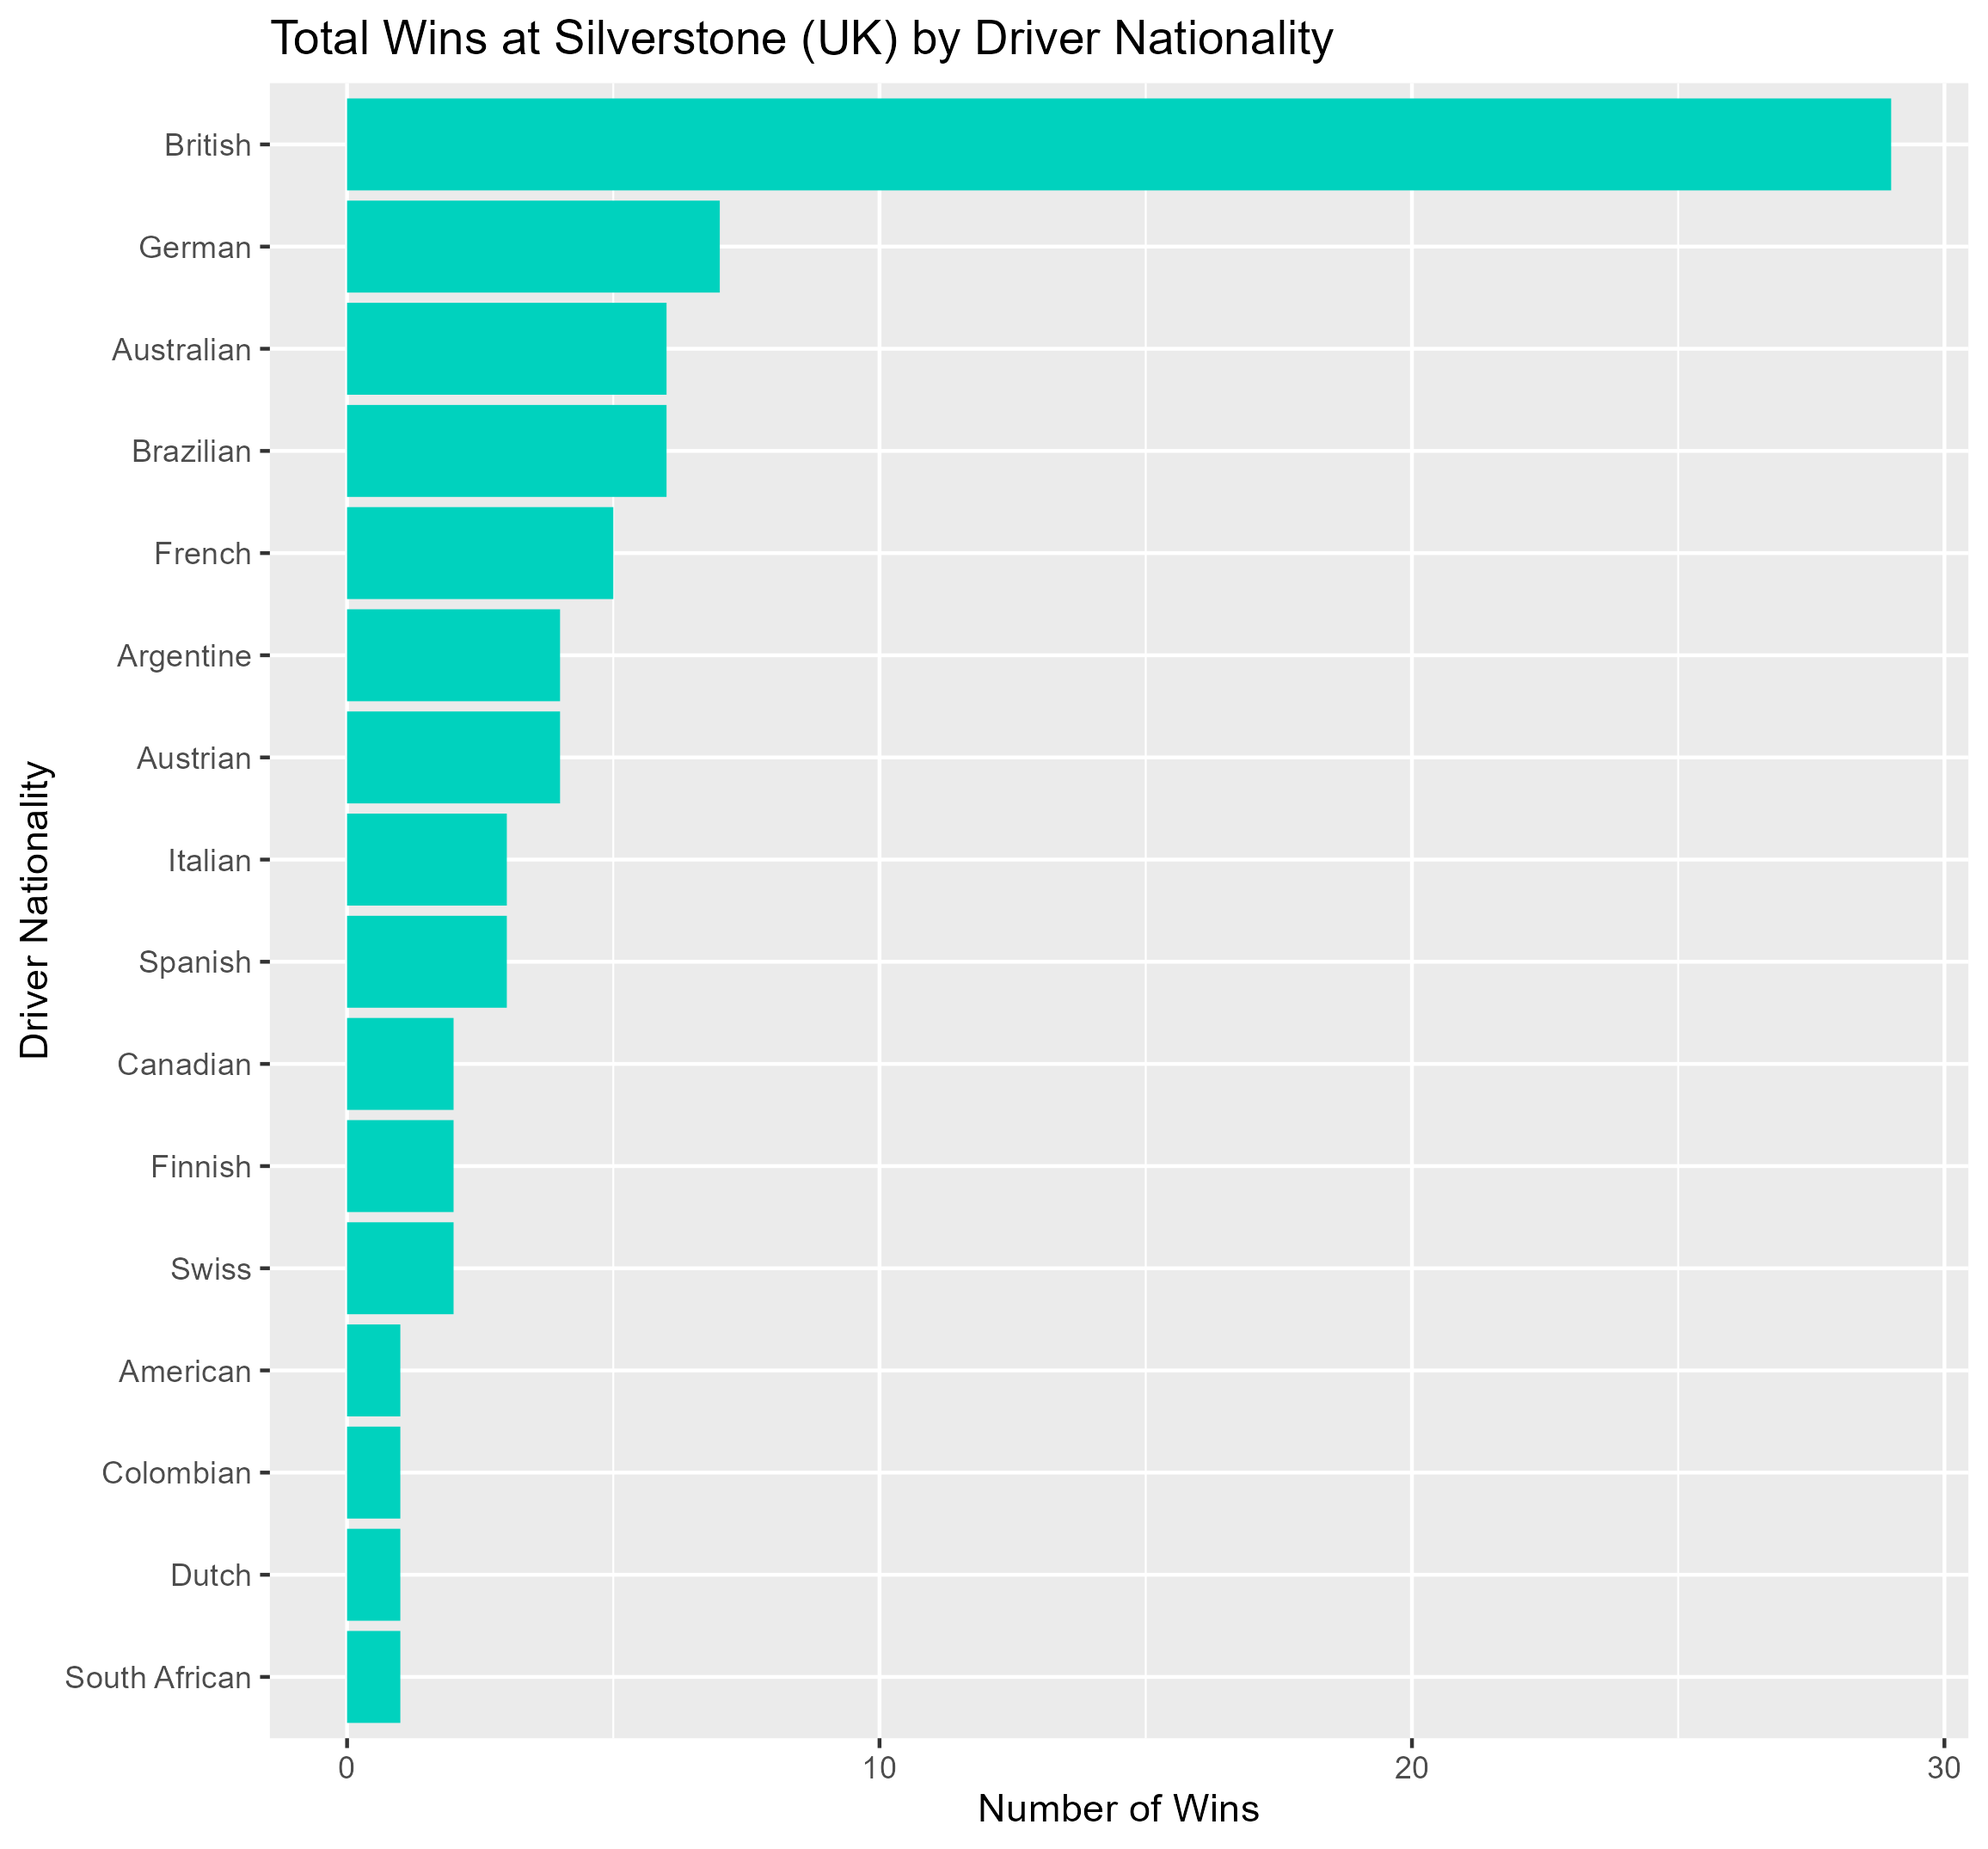
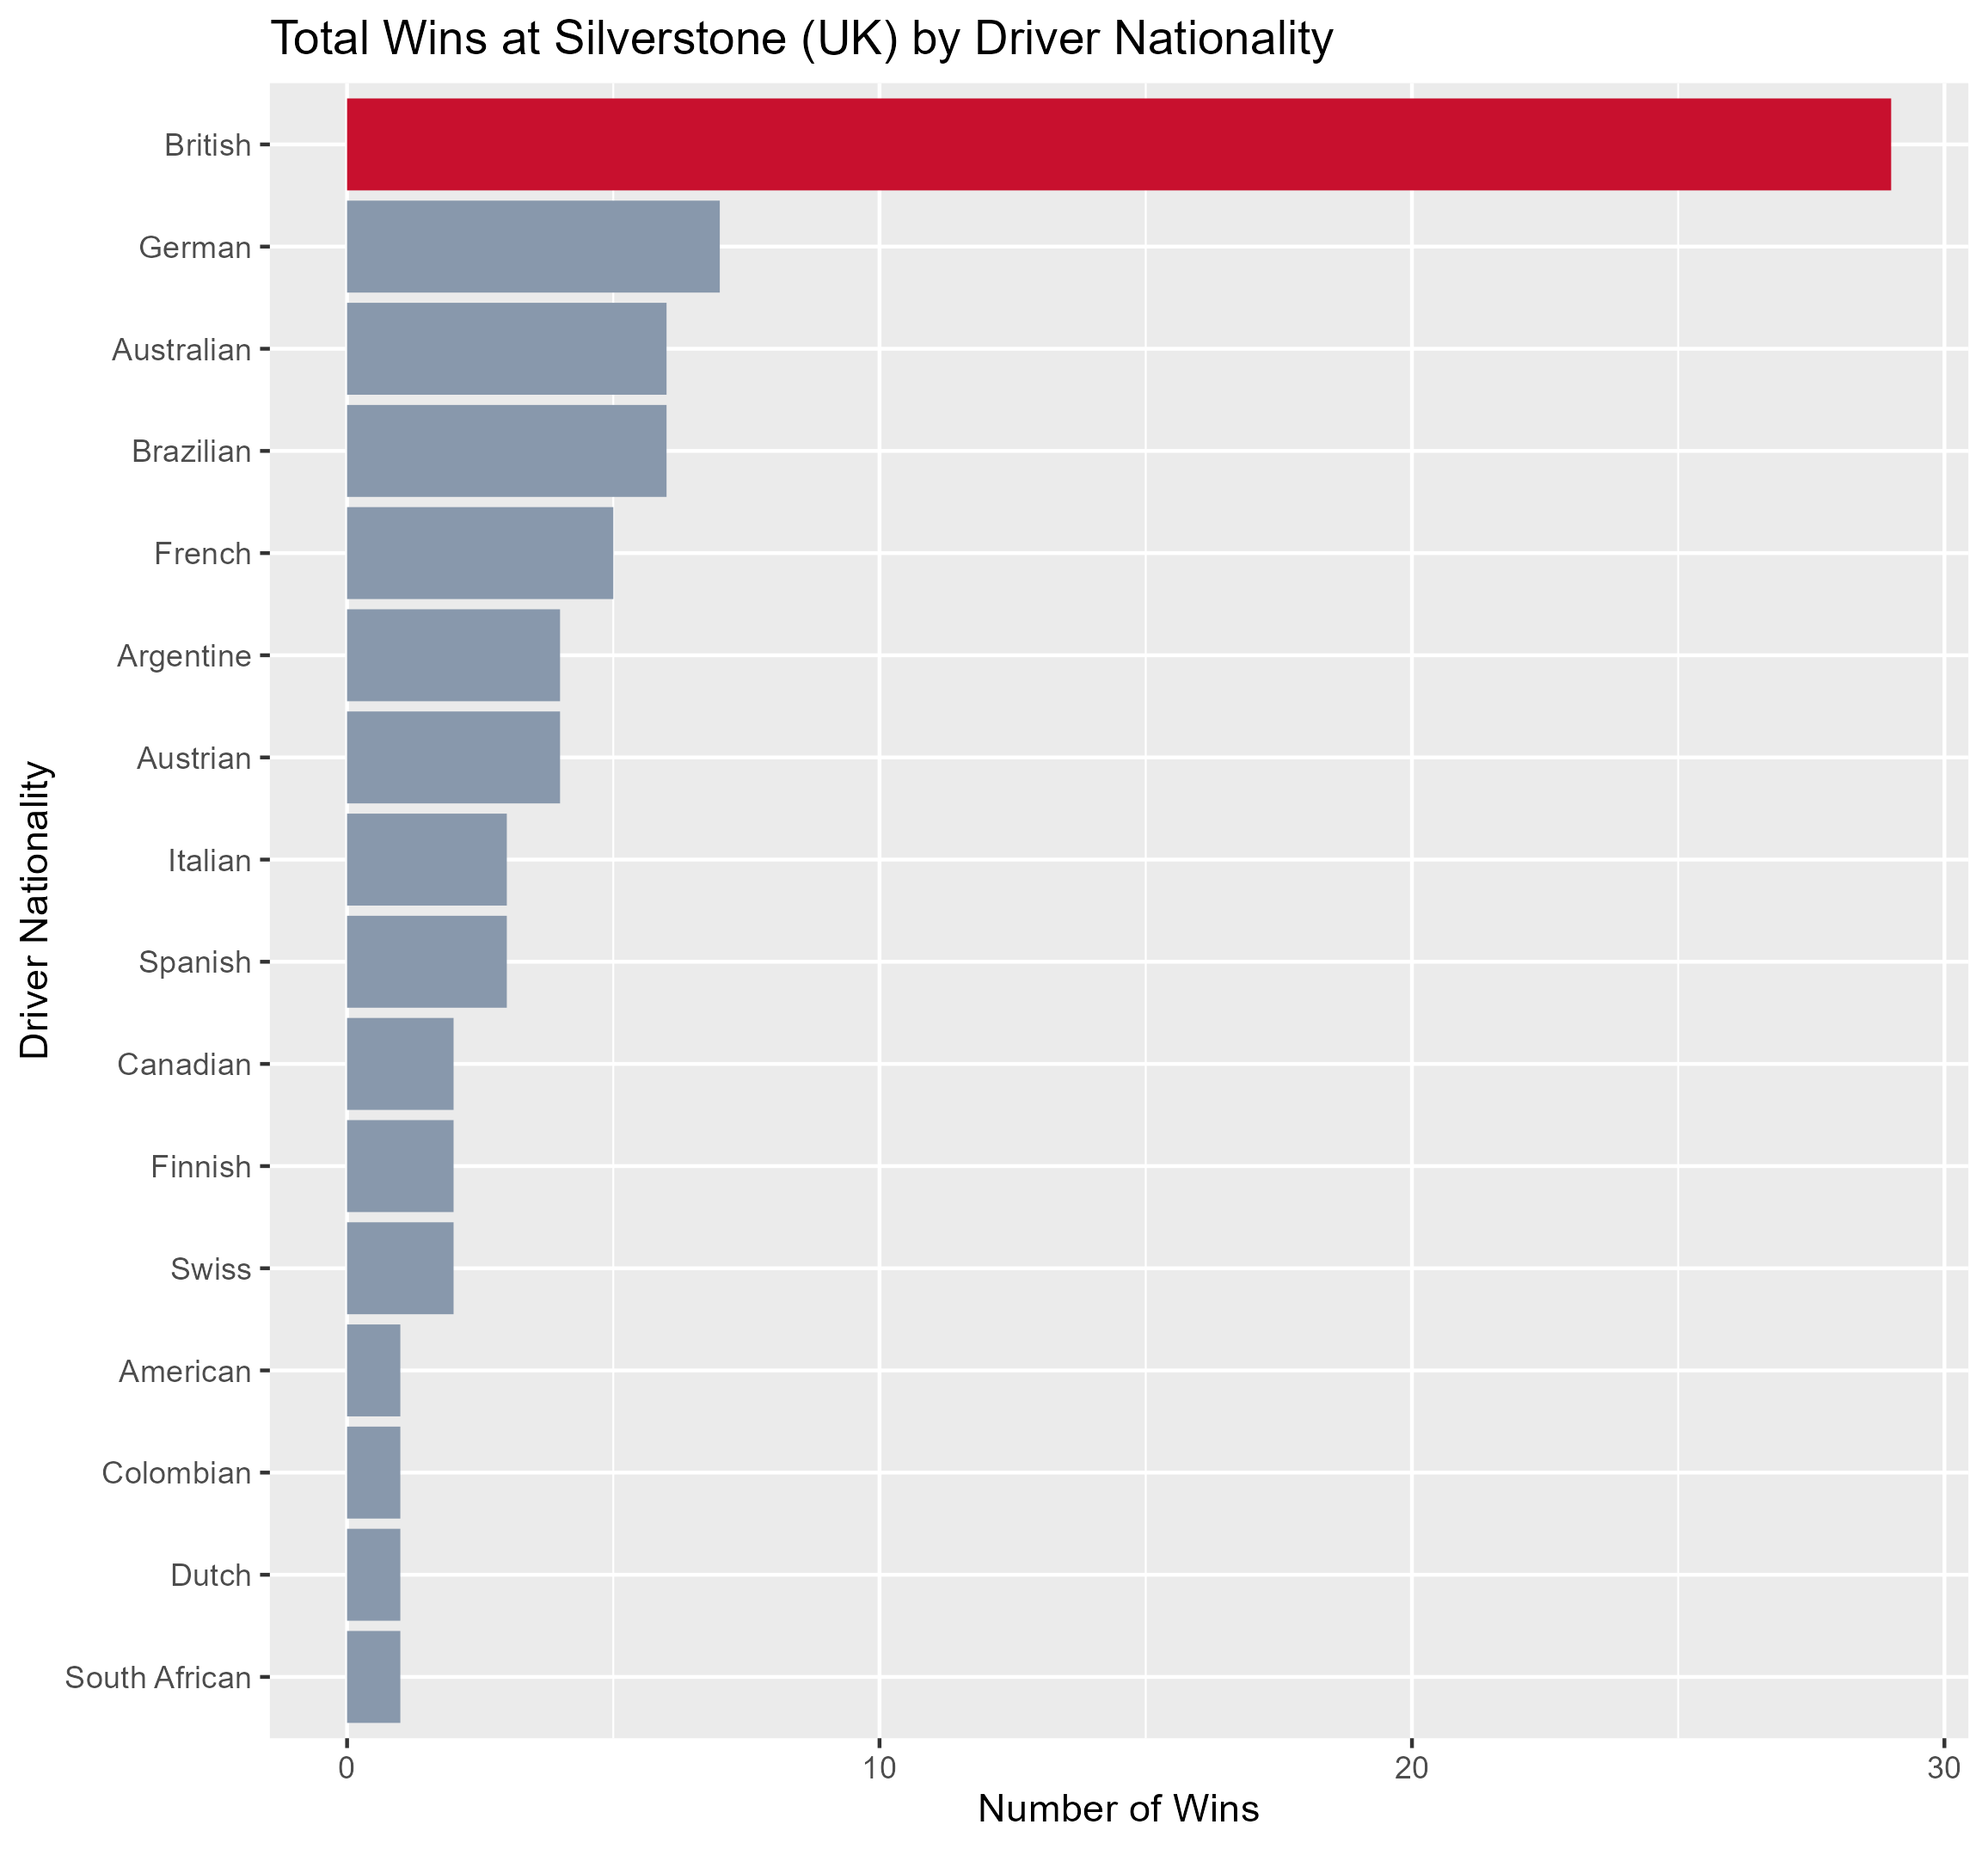
updating plots

Changed region(s): [[0.1557, 0.0312, 0.9654, 0.9349]]

diff --git a/README.md b/README.md
@@ -44,8 +44,9 @@ british_gp_winners <- master_results %>%
   select(year, driver_nationality) %>% 
   group_by(year, driver_nationality) %>%
   summarise(count_nt = n()) %>% 
-  ggplot(aes(fct_rev(fct_infreq(driver_nationality)))) +
-  geom_bar(position = "dodge", fill = "#00D2BE")+
+  ggplot(aes(fct_rev(fct_infreq(driver_nationality)), fill=as.factor(ifelse(driver_nationality=="British","Highlight","Normal"))))+
+  geom_bar(position = "dodge", show.legend=FALSE)+
+  scale_fill_manual(values=c("#C8102E","#8898AC"))+
   labs(title = "Total Wins at Silverstone (UK) by Driver Nationality",
        x = "Driver Nationality",
        y = "Number of Wins")+coord_flip()
